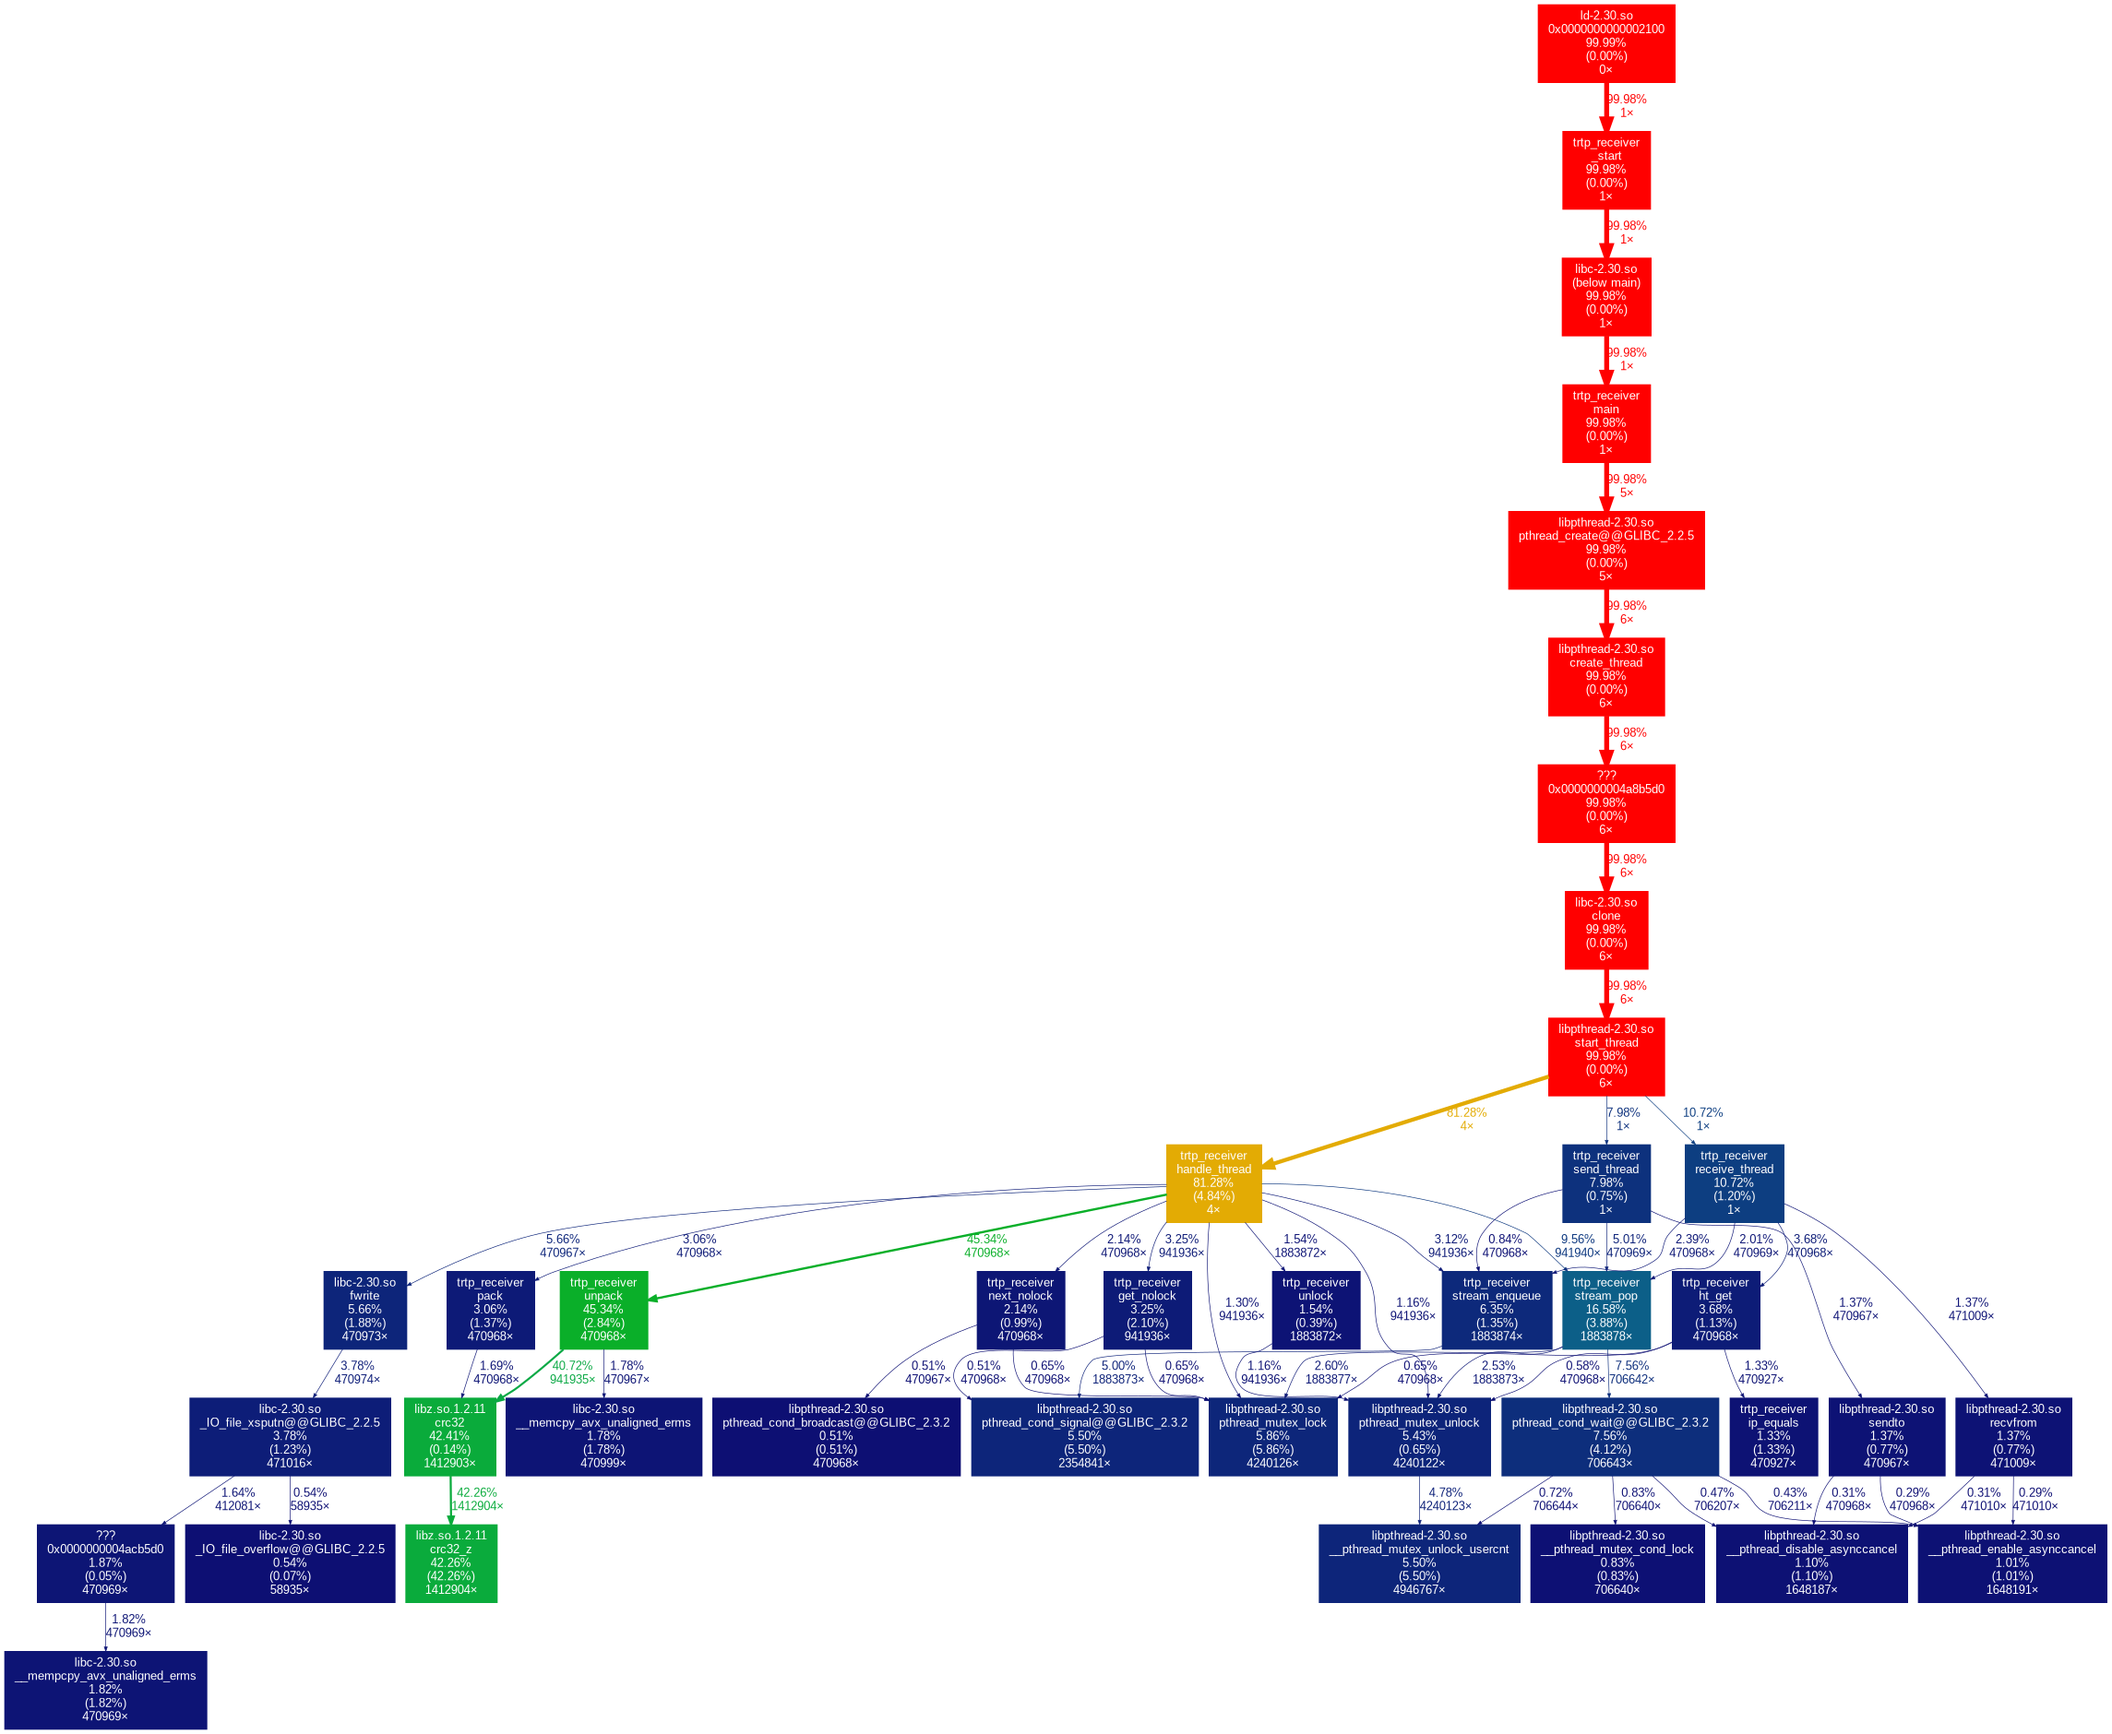
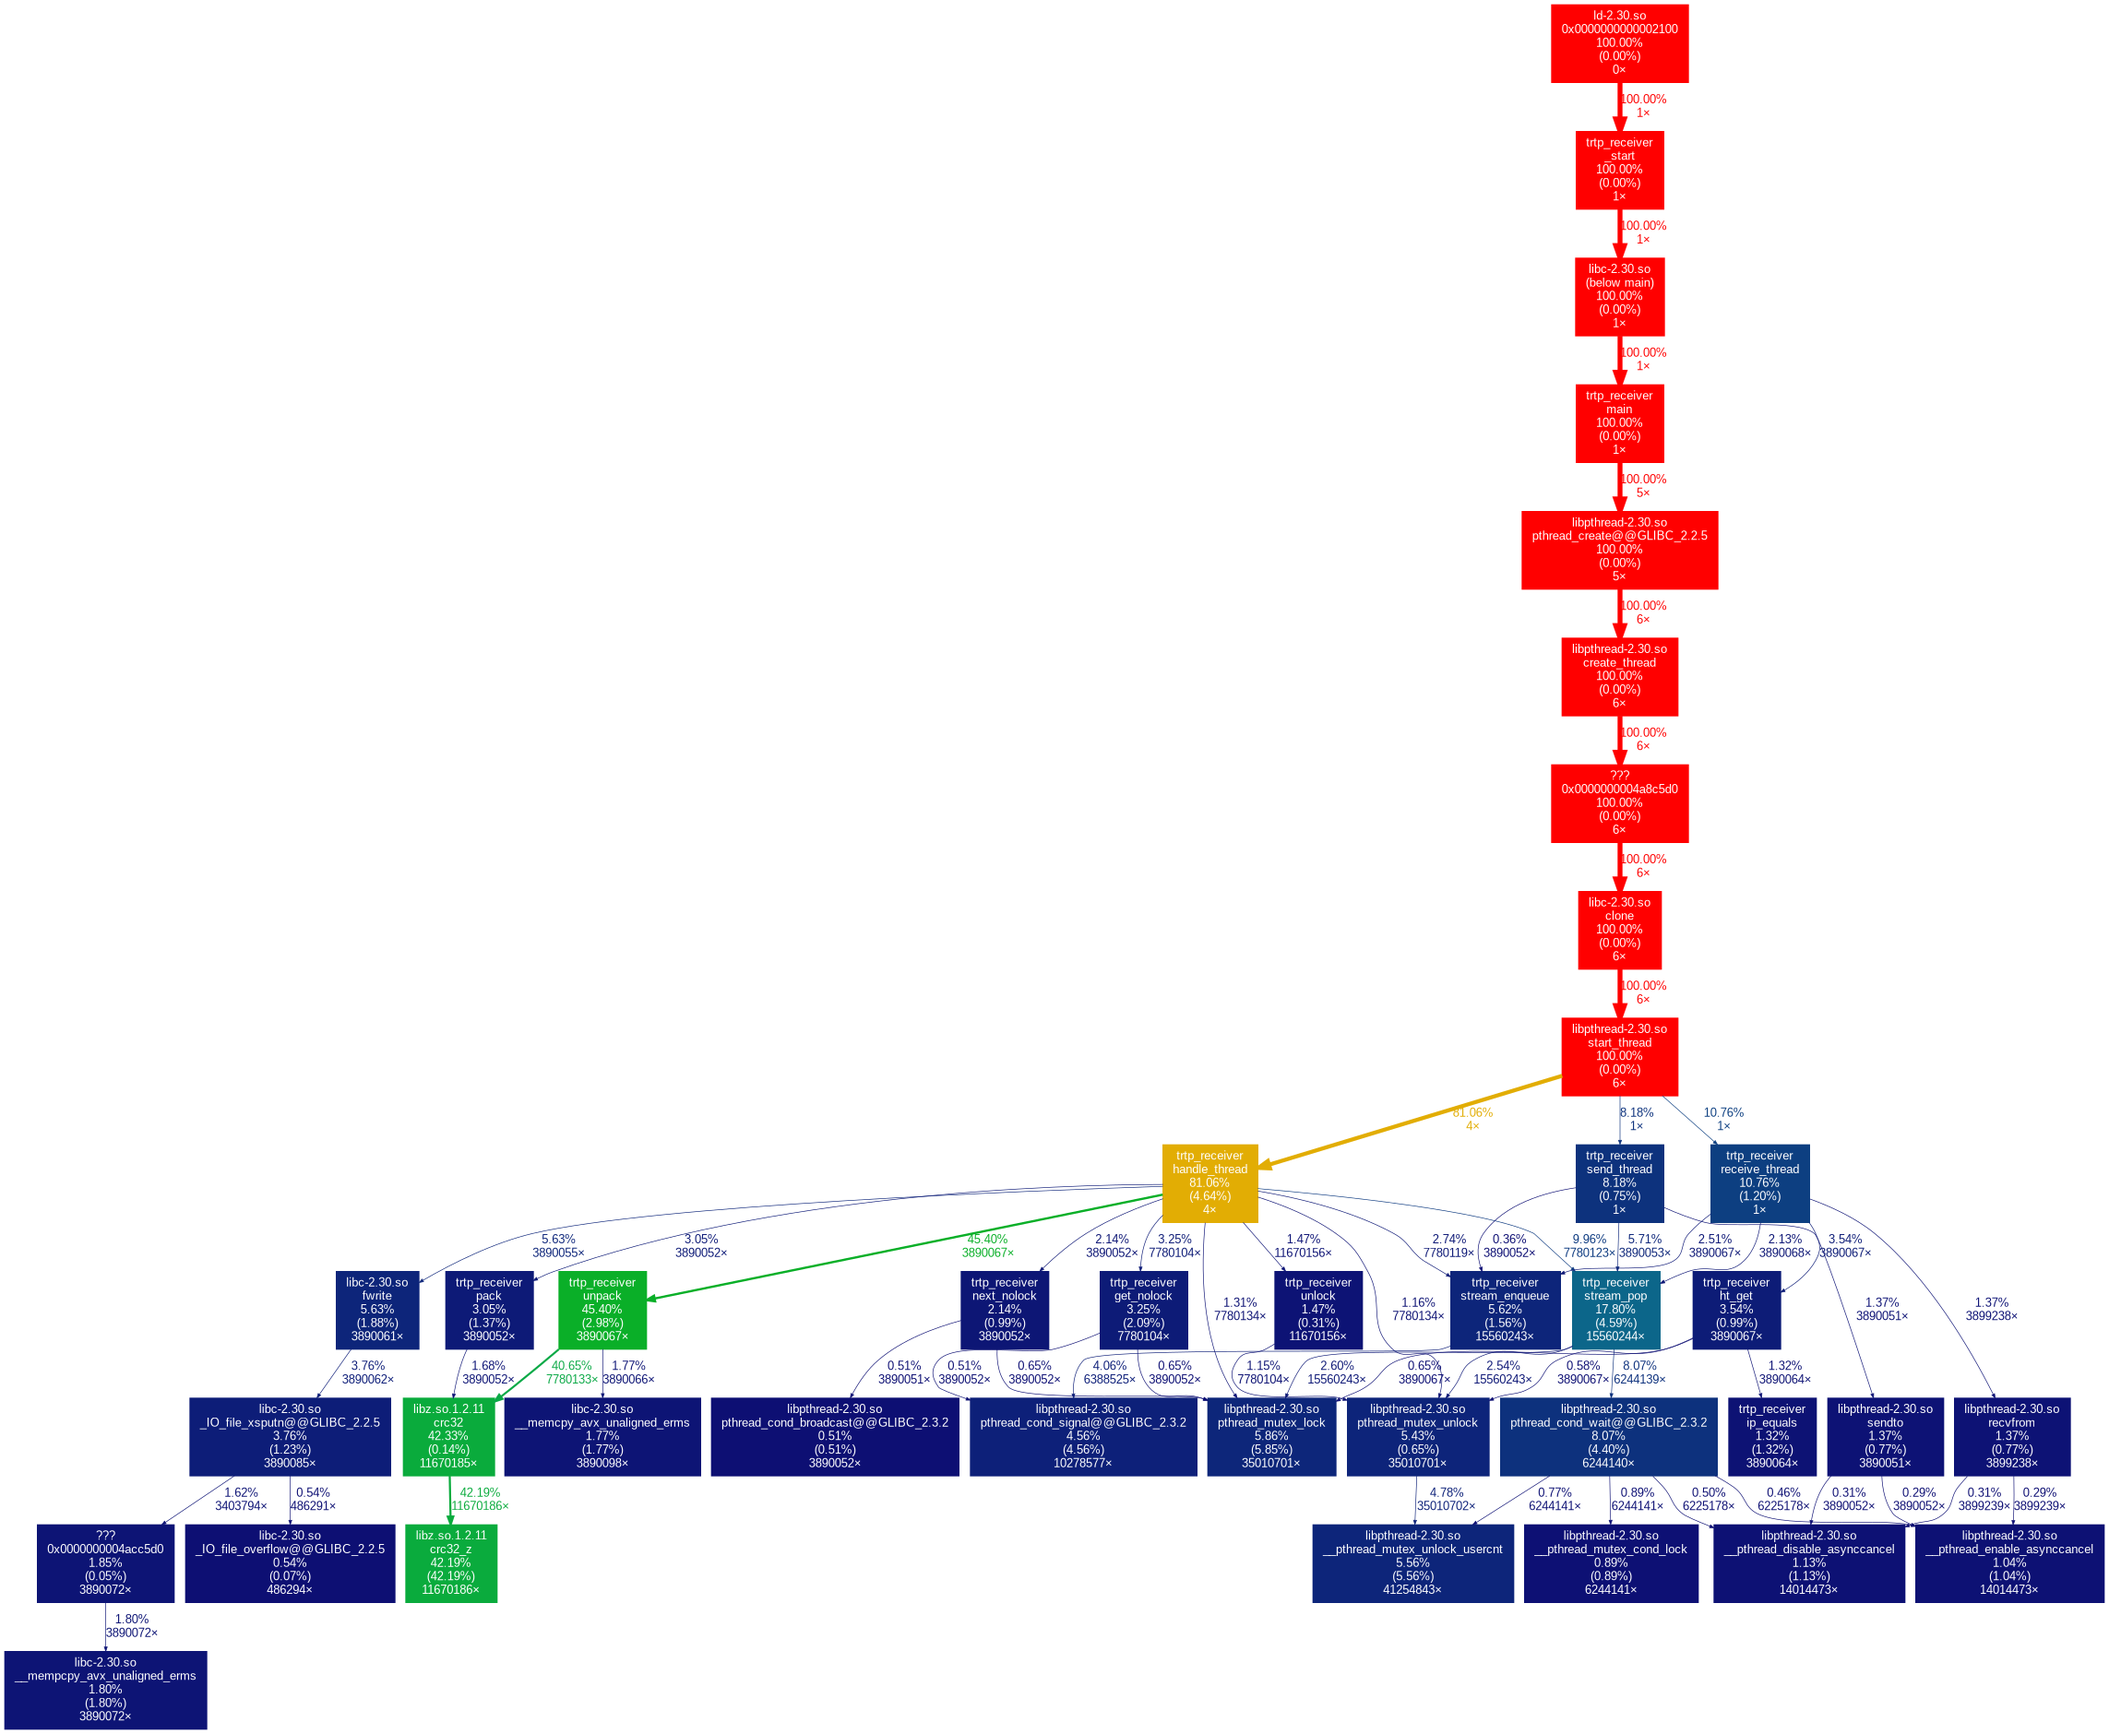
Pushing some fucking changes

diff --git a/src/handler.c b/src/handler.c
@@ -141,59 +141,6 @@ void *handle_thread(void *config) {
                                 client->window->window_low,
                                 decoded->seqnum
                             );
-
-                            s_node_t *send_node = stream_pop(cfg->send_rx, false);
-                                if (send_node == NULL) {
-                                    send_node = malloc(sizeof(s_node_t));
-                                    if (send_node == NULL || initialize_node(send_node, allocate_send_request)) {
-                                        fprintf(stderr, "[HD] Failed to allocated s_node_t\n");
-
-                                        if (!stream_enqueue(cfg->tx, node_rx, false)) {
-                                            deallocate_node(node_rx);
-                                        }
-
-                                        continue;
-                                    }
-
-                                    send_node->content = NULL;
-                                    send_node->next = NULL;
-                                }
-
-                                if (send_node->content == NULL) {
-                                    send_node->content = allocate_send_request();
-                                    if (send_node->content == NULL) {
-                                        fprintf(stderr, "[HD] Failed to allocated tx_req_t\n");
-
-                                        if (!stream_enqueue(cfg->tx, node_rx, false)) {
-                                            deallocate_node(node_rx);
-                                        }
-
-                                        continue;
-                                    }
-                                }
-
-                                send_node->next = NULL;
-
-                                tx_req_t *send_req = (tx_req_t *) send_node->content;
-
-                                send_req->stop = false;
-                                send_req->address = client->address;
-                                send_req->deallocate_address = false;
-
-                                to_send.type = ACK;
-                                to_send.truncated = false;
-                                to_send.long_length = false;
-                                to_send.length = 0;
-                                to_send.seqnum = window->window_low;
-                                to_send.timestamp = decoded->timestamp;
-                                to_send.window = min(cfg->max_window_size, 31 - window->length);
-
-                                if (pack(send_req->to_send, &to_send, false)) {
-                                    ip_to_string(req->client->address->sin6_addr.__in6_u.__u6_addr8, ip_as_str);
-                                    fprintf(stderr, "[%s][%5u] Failed to pack ACK\n", ip_as_str, client->address->sin6_port);
-                                } else {
-                                    stream_enqueue(cfg->send_tx, send_node, true);
-                                }
                         } else if(is_used_nolock(window, decoded->seqnum)) {
                             ip_to_string(req->client->address->sin6_addr.__in6_u.__u6_addr8, ip_as_str);
                             pthread_mutex_unlock(buf_get_lock(window));
@@ -206,59 +153,6 @@ void *handle_thread(void *config) {
                                 client->window->window_low,
                                 decoded->seqnum
                             );
-
-                            s_node_t *send_node = stream_pop(cfg->send_rx, false);
-                                if (send_node == NULL) {
-                                    send_node = malloc(sizeof(s_node_t));
-                                    if (send_node == NULL || initialize_node(send_node, allocate_send_request)) {
-                                        fprintf(stderr, "[HD] Failed to allocated s_node_t\n");
-
-                                        if (!stream_enqueue(cfg->tx, node_rx, false)) {
-                                            deallocate_node(node_rx);
-                                        }
-
-                                        continue;
-                                    }
-
-                                    send_node->content = NULL;
-                                    send_node->next = NULL;
-                                }
-
-                                if (send_node->content == NULL) {
-                                    send_node->content = allocate_send_request();
-                                    if (send_node->content == NULL) {
-                                        fprintf(stderr, "[HD] Failed to allocated tx_req_t\n");
-
-                                        if (!stream_enqueue(cfg->tx, node_rx, false)) {
-                                            deallocate_node(node_rx);
-                                        }
-
-                                        continue;
-                                    }
-                                }
-
-                                send_node->next = NULL;
-
-                                tx_req_t *send_req = (tx_req_t *) send_node->content;
-
-                                send_req->stop = false;
-                                send_req->address = client->address;
-                                send_req->deallocate_address = false;
-
-                                to_send.type = ACK;
-                                to_send.truncated = false;
-                                to_send.long_length = false;
-                                to_send.length = 0;
-                                to_send.seqnum = window->window_low;
-                                to_send.timestamp = decoded->timestamp;
-                                to_send.window = min(cfg->max_window_size, 31 - window->length);
-
-                                if (pack(send_req->to_send, &to_send, false)) {
-                                    ip_to_string(req->client->address->sin6_addr.__in6_u.__u6_addr8, ip_as_str);
-                                    fprintf(stderr, "[%s][%5u] Failed to pack ACK\n", ip_as_str, client->address->sin6_port);
-                                } else {
-                                    stream_enqueue(cfg->send_tx, send_node, true);
-                                }
                         } else {
                             node_t *spot = next_nolock(window, decoded->seqnum, true);
                             packet_t *temp = (packet_t *) spot->value;

diff --git a/src/stream.c b/src/stream.c
@@ -50,6 +50,7 @@ int allocate_stream(stream_t *stream, size_t max_len) {
     stream->in_queue = NULL;
     stream->out_queue = NULL;
     stream->length = 0;
+    stream->waiting = 0;
 
     if (pthread_mutex_init(&stream->lock, NULL)) {
         dealloc_stream(stream);
@@ -97,7 +98,6 @@ bool stream_enqueue(stream_t *stream, s_node_t *node, bool wait) {
     if (node == NULL) {
         return false;
     }
-    pthread_mutex_lock(&stream->lock);
 
     while (true) {
         s_node_t *in_queue = stream->in_queue;
@@ -108,9 +108,9 @@ bool stream_enqueue(stream_t *stream, s_node_t *node, bool wait) {
     }
 
     _faa(&stream->length, 1);
-    pthread_cond_signal(&stream->read_cond);
-    
-    pthread_mutex_unlock(&stream->lock);
+    if (stream->waiting > 0) {
+        pthread_cond_signal(&stream->read_cond);
+    }
     
     return true;
 }
@@ -122,7 +122,11 @@ s_node_t *stream_pop(stream_t *stream, bool wait) {
     pthread_mutex_lock(&stream->lock);
 
     while (wait && stream->length == 0) {
+        _faa(&stream->waiting, 1);
+
         pthread_cond_wait(&stream->read_cond, &stream->lock);
+
+        _fas(&stream->waiting, 1);
     }
 
     if (!stream->out_queue) {

diff --git a/tests/stream_test.c b/tests/stream_test.c
@@ -47,9 +47,6 @@ void test_many() {
         CU_ASSERT(node != NULL);
         if (node != NULL) {
             CU_ASSERT(*((int *) node->content) == i);
-            if (node->content != NULL) {
-                free(node->content);
-            }
             free(node);
         }
 

diff --git a/src/receiver.c b/src/receiver.c
@@ -23,7 +23,7 @@ void *receive_thread(void *receive_config) {
 
     uint16_t port;
     uint8_t ip[16] = {0, 0, 0, 0, 0, 0, 0, 0, 0, 0, 0, 0, 0, 0, 0, 0};
-
+    
     while(!rcv_cfg->stop) {
         if(!already_popped) {
             node = stream_pop(rcv_cfg->rx, false);

diff --git a/src/buffer.c b/src/buffer.c
@@ -239,7 +239,7 @@ node_t *get(buf_t *buffer, uint8_t seqnum, bool wait, bool inc) {
 /*
  * Refer to headers/buffer.h
  */
-void unlock(node_t* node) {
+inline void unlock(node_t* node) {
     if (node != NULL) {
         pthread_mutex_unlock(node->lock);
     }

diff --git a/headers/stream.h b/headers/stream.h
@@ -78,6 +78,8 @@ typedef struct stream {
 
     pthread_cond_t read_cond;
 
+    int waiting;
+
 
     /*size_t max_length;
 
